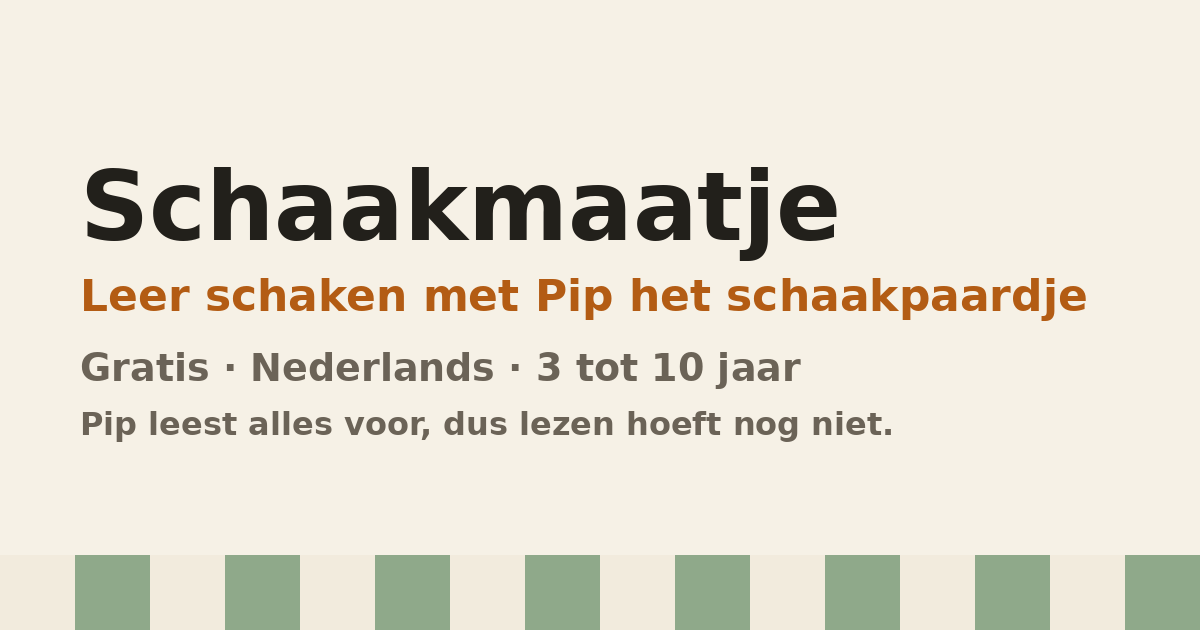
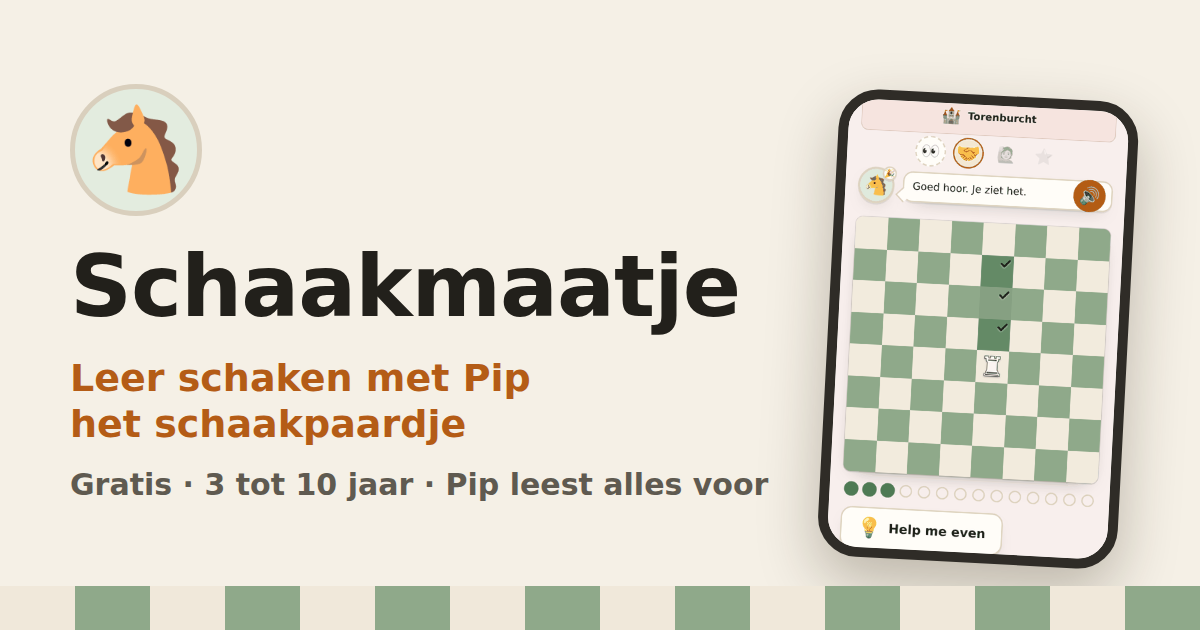
Deelbeeld met Pip en een lesscherm, zodat Google een foto toont
Het oude og.png was alleen tekst. Nu Pip en een echt lesscherm, in breed
(1200x630) en vierkant (1200x1200). Robots-meta met max-image-preview:large,
en beide maten plus een schermafbeelding in de gestructureerde gegevens.
scripts/deelbeeld.mjs maakt de plaatjes opnieuw.

diff --git a/src/app/layout.tsx b/src/app/layout.tsx
@@ -38,7 +38,9 @@ export const metadata: Metadata = {
     omschrijving: OMSCHRIJVING,
     url: `${SITE}/`,
   }),
-  robots: { index: true, follow: true },
+  // Zonder `max-image-preview: large` toont Google bij de site hooguit een klein
+  // plaatje, of geen. Pagina's die zelf `robots` zetten, staan op noindex en tellen niet.
+  robots: { index: true, follow: true, 'max-image-preview': 'large', 'max-snippet': -1 },
   /*
    * Het bewijs voor Google Search Console, als tweede route naast het DNS-record.
    *
@@ -73,6 +75,7 @@ const GEGEVENS = {
       '@type': 'WebSite',
       '@id': `${SITE}/#site`,
       name: NAAM,
+      image: `${SITE}/og-vierkant.png`,
       url: SITE,
       inLanguage: 'nl-NL',
       description: OMSCHRIJVING,
@@ -88,7 +91,9 @@ const GEGEVENS = {
       operatingSystem: 'Web, iOS, Android',
       inLanguage: 'nl-NL',
       description: OMSCHRIJVING,
-      image: `${SITE}/og.png`,
+      // Vierkant en breed: Google kiest per plek de maat die past.
+      image: [`${SITE}/og-vierkant.png`, `${SITE}/og.png`],
+      screenshot: `${SITE}/schermen/les.png`,
       isAccessibleForFree: true,
       offers: { '@type': 'Offer', price: '0', priceCurrency: 'EUR' },
       audience: {
